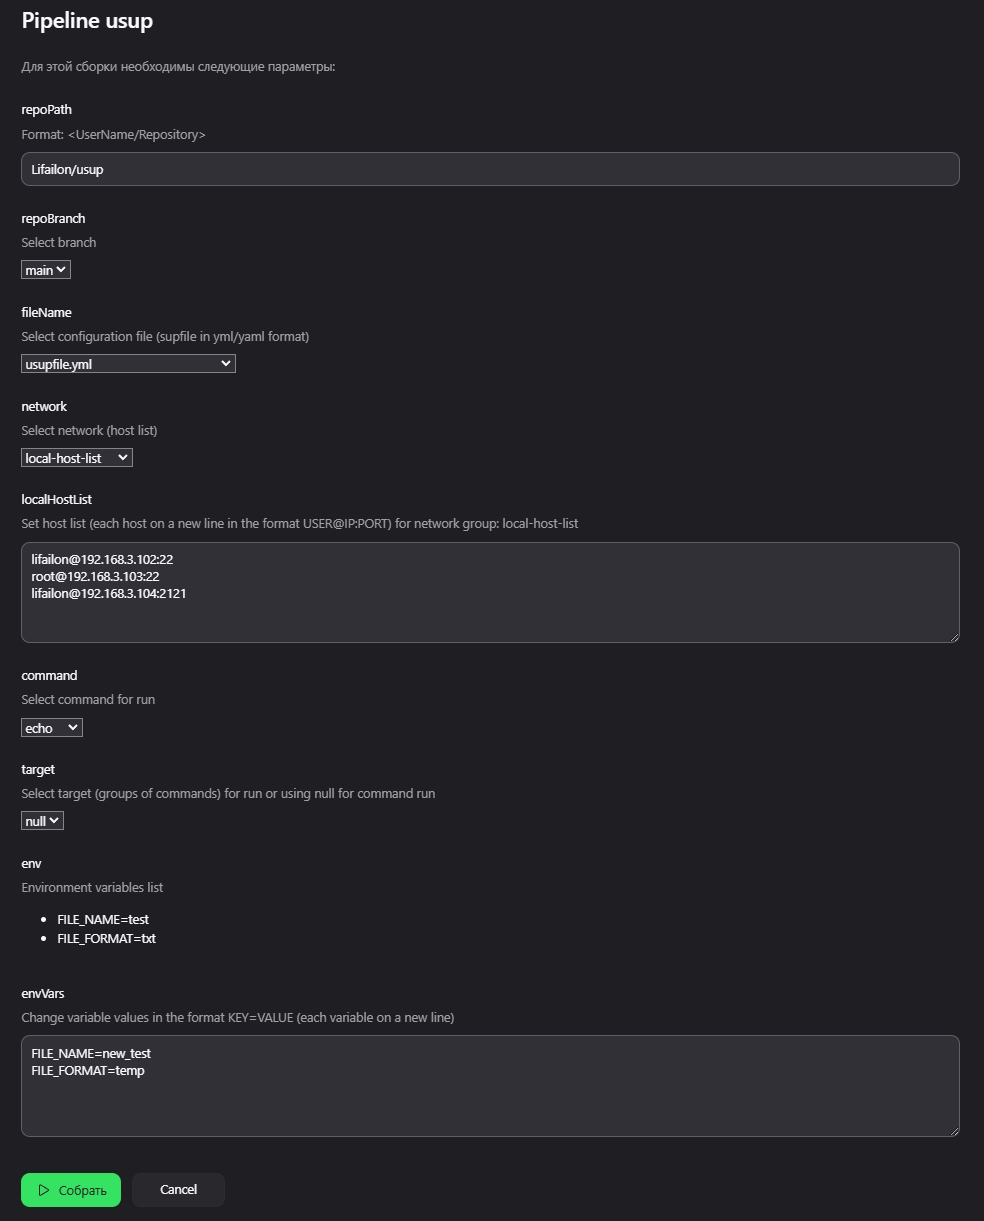
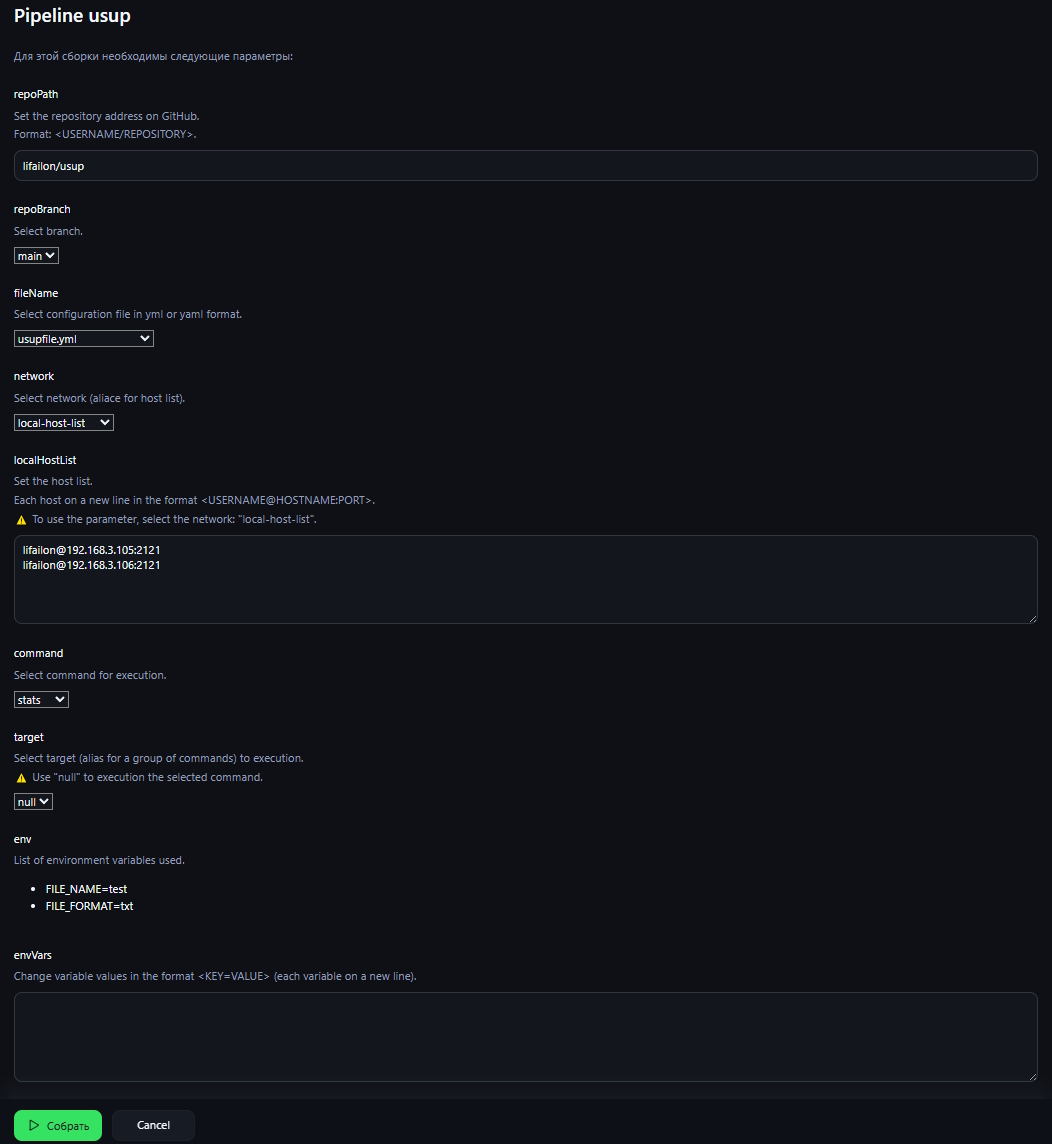
update examples img for jenkins build

Changed region(s): [[0.0, 0.0, 0.9756, 1.0]]

diff --git a/README.md b/README.md
@@ -2,7 +2,8 @@
 
 A very simple deployment tool that runs a given set of `bash` commands on multiple hosts in parallel. It reads `yaml` configuration, which defines networks (groups of hosts), global variables (which can be changed via arguments), command(s) and targets (groups of commands).
 
-The goal is to revive the [sup](https://github.com/pressly/sup) project, which has not been supported since 2018. First of all, to solve common problems (for example, an error when connecting via `ssh`), expand the functionality (for example, add reading the configuration from the `url`), add support for the Windows system and implement a simple user interface (example for [Jenkins](#jenkins)).
+> [!NOTE]
+> The goal is to revive the [sup](https://github.com/pressly/sup) project, which has not been supported since 2018. First of all, to solve common problems (for example, an error when connecting via `ssh`), expand the functionality (for example, add reading the configuration from the `url`), add support for the Windows system and implement a simple user interface (example for [Jenkins](#jenkins)).
 
 ## Install
 
@@ -25,15 +26,13 @@ usup -u https://raw.githubusercontent.com/Lifailon/usup/refs/heads/main/usupfile
 
 This is a simple example that clones a repository and runs tests on two specified machines, which I use to test the [lazyjournal](https://github.com/Lifailon/lazyjournal) project on BSD-based systems:
 
-![go-test](img/go-test.jpg)
+![go-test](/img/go-test.jpg)
 
-## Templates and contributing
+## Templates & Contributing
 
-This repository will also contain a set of [templates](/templates/) for configuring the system and installing packages.
+This repository also plans to contain a set of [templates](/templates/) for [installing packages](/templates/packages.yml), [getting information](/templates/fetch.yml) and configuring the system.
 
-I use the [ubuntu-preparation](/templates/ubuntu-preparation.yml) template for initial configuration of new hosts and [fetch](/templates/fetch.yml) to collect system information.
-
-You can contribute and add your template to this repository via [Pull Request](https://github.com/Lifailon/usup/pulls).
+You can contribute and add your template to this repository via a [Pull Request](https://github.com/Lifailon/usup/pulls).
 
 ## Supported file names
 
@@ -230,9 +229,15 @@ You can use the Jenkins generic pipeline, which uploads a list of all available 
 
 To import it, you need to fill in the active parameters from the [param](jenkins/params.groovy) file and load [Pipeline](jenkins/pipeline.groovy), or import the [config.xml](jenkins/config.xml) into the `jenkins_home/jobs/<New_Job_Name>` directory and reload the configurations from disk in the interface.
 
-To work, you need to install the [Active Choices](https://plugins.jenkins.io/uno-choice) plugin and add a private ssh key to the slave agents (installation and removal of usup is done in pipeline stages).
+To work, you need to install the [Active Choices](https://plugins.jenkins.io/uno-choice) plugin and forward ssh private key to the Jenkins agents from host, by exaple: `-v $HOME/.ssh/id_rsa:/home/jenkins/.ssh/id_rsa`
 
-![jenkins-param](img/jenkins-params.jpg)
+![jenkins-param](/img/jenkins-params.jpg)
+
+Example of execution results:
+
+![jenkins-build](/img/jenkins-build.jpg)
+
+The [AnsiColor](https://plugins.jenkins.io/ansicolor) plugin is used to coloring the output.
 
 ## License
 
